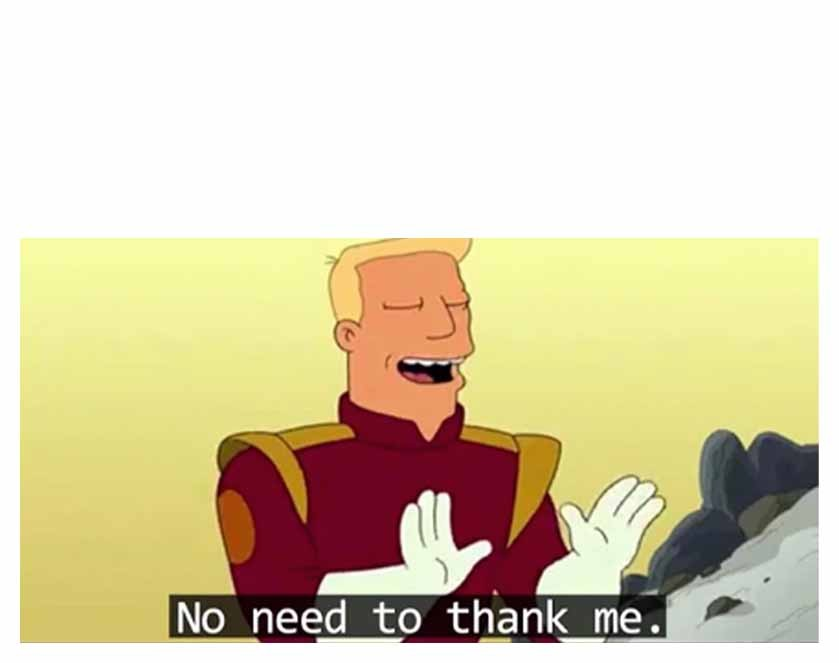
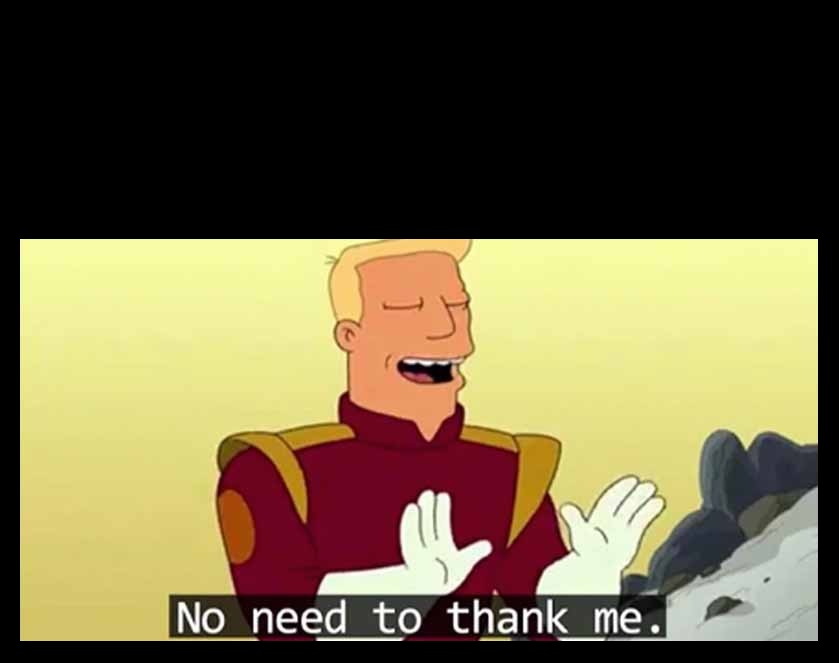
-update no need to thank me meme -change email to html to allow for embeded images

diff --git a/xeroticket.py b/xeroticket.py
@@ -84,7 +84,7 @@ smtp_recipients_string = config.get("Email", "smtp_recipients")
 smtp_recipients = smtp_recipients_string.split(",")
 
 # meme variables
-use_memes = ast.literal_eval(config.get("Meme", "use_memes"))
+use_memes = config.getboolean("Meme", "use_memes")
 successful_restart_meme_path = os.path.join(script_dir, 'memes', config.get("Meme", "successful_restart_meme"))
 unsuccessful_restart_meme_path = os.path.join(script_dir, 'memes', config.get("Meme", "unsuccessful_restart_meme"))
 temp_meme_path = os.path.join(script_dir, os.path.dirname('memes'), 'temp_meme.jpg')
@@ -129,48 +129,55 @@ local_time_str = datetime.now().time()
 
 # Function to generate meme with better text size and positioning
 def generate_meme(image_path, top_text, bottom_text, output_path):
-    # Open the image
-    img = Image.open(image_path)
-    draw = ImageDraw.Draw(img)
+    logging.info("Generating meme...")
+    try:
+        # Open the image
+        img = Image.open(image_path)
+        draw = ImageDraw.Draw(img)
 
-    # Load the TrueType font
-    max_width = img.width * 0.9  # Allow a 5% margin on either side
-    max_font_size = img.height // 10  # Set a maximum font size based on image height
+        # Load the TrueType font
+        max_width = img.width * 0.9  # Allow a 5% margin on either side
+        max_font_size = img.height // 10  # Set a maximum font size based on image height
 
-    font_size = max_font_size
-    font = ImageFont.truetype(font_path, font_size)
+        font_size = max_font_size
+        font = ImageFont.truetype(font_path, font_size)
 
-    # Reduce font size until text fits within max_width
-    def fit_text_to_width(text, font):
-        while draw.textbbox((0, 0), text, font=font)[2] > max_width and font_size > 10:
-            font = ImageFont.truetype(font_path, font.size - 2)
-        return font
+        # Reduce font size until text fits within max_width
+        def fit_text_to_width(text, font):
+            while draw.textbbox((0, 0), text, font=font)[2] > max_width and font_size > 10:
+                font = ImageFont.truetype(font_path, font.size - 2)
+            return font
 
-    # Adjust top text font
-    font = fit_text_to_width(top_text, font)
-    wrapped_top_text = textwrap.fill(top_text, width=40)
+        # Adjust top text font
+        font = fit_text_to_width(top_text, font)
+        wrapped_top_text = textwrap.fill(top_text, width=40)
 
-    # Draw top text
-    top_y_position = 10
-    draw.multiline_text(
-        ((img.width - draw.textbbox((0, 0), wrapped_top_text, font=font)[2]) / 2, top_y_position),
-        wrapped_top_text, fill="white", font=font, align="center"
-    )
+        # Draw top text
+        top_y_position = 10
+        draw.multiline_text(
+            ((img.width - draw.textbbox((0, 0), wrapped_top_text, font=font)[2]) / 2, top_y_position),
+            wrapped_top_text, fill="white", font=font, align="center"
+        )
 
-    # Adjust bottom text font
-    font = fit_text_to_width(bottom_text, font)
-    wrapped_bottom_text = textwrap.fill(bottom_text, width=40)
+        # Adjust bottom text font
+        font = fit_text_to_width(bottom_text, font)
+        wrapped_bottom_text = textwrap.fill(bottom_text, width=40)
 
-    # Draw bottom text at the bottom with a bit of padding
-    bottom_y_position = img.height - draw.textbbox((0, 0), wrapped_bottom_text, font=font)[3] - 20
-    draw.multiline_text(
-        ((img.width - draw.textbbox((0, 0), wrapped_bottom_text, font=font)[2]) / 2, bottom_y_position),
-        wrapped_bottom_text, fill="white", font=font, align="center"
-    )
+        # Draw bottom text at the bottom with a bit of padding
+        bottom_y_position = img.height - draw.textbbox((0, 0), wrapped_bottom_text, font=font)[3] - 20
+        draw.multiline_text(
+            ((img.width - draw.textbbox((0, 0), wrapped_bottom_text, font=font)[2]) / 2, bottom_y_position),
+            wrapped_bottom_text, fill="white", font=font, align="center"
+        )
 
-    # Save the meme
-    img.save(output_path)
-    return output_path
+        # Save the meme
+        img.save(output_path)
+        logging.info(f"Meme saved at {output_path}")
+        return output_path
+
+    except Exception as e:
+        logging.error(f"Failed to generate meme: {e}")
+        raise
 
 
 
@@ -216,7 +223,13 @@ class DisabledServerManager:
             else:
                 subject = f"Xero Ticketing/Image Display has been Restored on {xero_server} at {local_time_str}"
                 body = f"Xero Ticketing/Image Display has been Restored on {xero_server} at {local_time_str}\nPlease Close {incident}"
-            send_email(smtp_recipients, subject, body, xero_server)
+            if use_memes:
+                generate_meme(successful_restart_meme_path, f"Xero Ticketing/Image Display has been Restored on {xero_server}",
+                              "", temp_meme_path)
+                send_email(smtp_recipients, subject, body, xero_server, temp_meme_path)
+                os.remove(temp_meme_path)
+            else:
+                send_email(smtp_recipients, subject, body, xero_server)
             del servers[xero_server]
             DisabledServerManager.save_disabled_servers(servers)
 
@@ -241,8 +254,44 @@ def send_email(smtp_recipients, subject, body, node, meme_path=None):
     except Exception as e:
         logging.error(f"Email sending failed to {', '.join(smtp_recipients)}: {e}")
 
-# Helper function to construct email message
+
+
+# Helper function to construct email message with an embedded image
 def construct_email_message(smtp_from, smtp_recipients, subject, body, meme_path=None):
+    # Create a MIMEMultipart message to handle both HTML and image content
+    msg = MIMEMultipart('related')
+    msg["From"] = smtp_from
+    msg["To"] = ", ".join(smtp_recipients)
+    msg["Subject"] = subject
+
+    # Create the HTML body, embedding the image with a CID
+    body_html = body.replace("\n", "<br>")
+    html_body = f"""
+    <html>
+        <body>
+            <p>{body_html}</p>
+            {"<img src='cid:meme_image' alt='Meme'>" if meme_path else ""}
+        </body>
+    </html>
+    """
+    # Attach the HTML body to the email
+    msg.attach(MIMEText(html_body, 'html'))
+
+    # Attach the image if the meme_path is provided
+    if meme_path:
+        with open(meme_path, 'rb') as img_file:
+            meme_data = img_file.read()
+            image_part = MIMEImage(meme_data)
+            image_part.add_header('Content-ID', '<meme_image>')
+            image_part.add_header('Content-Disposition', 'inline', filename='meme.jpg')
+            msg.attach(image_part)
+
+    return msg
+
+
+
+# Helper function to construct email message
+def construct_email_message_old(smtp_from, smtp_recipients, subject, body, meme_path=None):
     msg = MIMEMultipart() if meme_path else MIMEText(body)
     msg["From"] = smtp_from
     msg["To"] = ", ".join(smtp_recipients)
@@ -478,8 +527,8 @@ def disable_xero_server(xero_server):
         else:
             DisabledServerManager.save_disabled_server(xero_server, "Ticket Creation Failed")
         if use_memes:
-            generate_meme(unsuccessful_restart_meme_path, "ONE DOES NOT SIMPLY",f"RESTART XERO SERVICES ON {xero_server}", temp_meme_path)
-            DisabledServerManager.send_email_meme(smtp_recipients, subject, body, xero_server, temp_meme_path)
+            generate_meme(unsuccessful_restart_meme_path, "ONE DOES NOT SIMPLY",f"DISABLE XERO SERVICES ON {xero_server}", temp_meme_path)
+            send_email(smtp_recipients, subject, body, xero_server, temp_meme_path)
             os.remove(temp_meme_path)
         else:
             send_email(smtp_recipients, subject, body, xero_server)
@@ -504,7 +553,7 @@ def disable_xero_server(xero_server):
             DisabledServerManager.save_disabled_server(xero_server, "Ticket Creation Failed")
         if use_memes:
             generate_meme(unsuccessful_restart_meme_path, "ONE DOES NOT SIMPLY",f"RESTART XERO SERVICES ON {xero_server}", temp_meme_path)
-            DisabledServerManager.send_email_meme(smtp_recipients, subject, body, xero_server, temp_meme_path)
+            send_email(smtp_recipients, subject, body, xero_server, temp_meme_path)
             os.remove(temp_meme_path)
         else:
             send_email(smtp_recipients, subject, body, xero_server)
@@ -562,7 +611,14 @@ def process_node(node):
     else:
         subject = f"Xero Ticketing/Image Display has been Restored on {node} at {local_time_str}"
         body = f"Xero Ticketing/Image Display has been Restored on {node} at {local_time_str}"
-        send_email(smtp_recipients, subject, body, node)
+        if use_memes:
+            generate_meme(successful_restart_meme_path,
+                          f"Xero Ticketing/Image Display has been Restored on {node}",
+                          "", temp_meme_path)
+            send_email(smtp_recipients, subject, body, node, temp_meme_path)
+            os.remove(temp_meme_path)
+        else:
+            send_email(smtp_recipients, subject, body, node)
 
 
 
@@ -573,13 +629,13 @@ def main():
     logging.info("All tasks completed. Shutting down.")
 
 def meme_testing():
-    xero_server = "ADCVWEBPACLX001"
-    generate_meme(unsuccessful_restart_meme_path, "ONE DOES NOT SIMPLY", f"RESTART XERO SERVICES ON {xero_server}",
-                  temp_meme_path)
+    xero_server = "TESTSERVER"
+    generate_meme(successful_restart_meme_path, f"Xero Ticketing/Image Display has been Restored on {xero_server}","", temp_meme_path)
+    #generate_meme(unsuccessful_restart_meme_path, "ONE DOES NOT SIMPLY", f"RESTART XERO SERVICES ON {xero_server}", temp_meme_path)
     subject = f"Xero Ticketing/Image Display has been Restored on {xero_server} at {local_time_str}"
     body = f"Xero Ticketing/Image Display has been Restored on {xero_server} at {local_time_str}"
     send_email(smtp_recipients, subject, body, xero_server, temp_meme_path)
-    os.remove(temp_meme_path)
+    #os.remove(temp_meme_path)
 
 if __name__ == '__main__':
     main()
